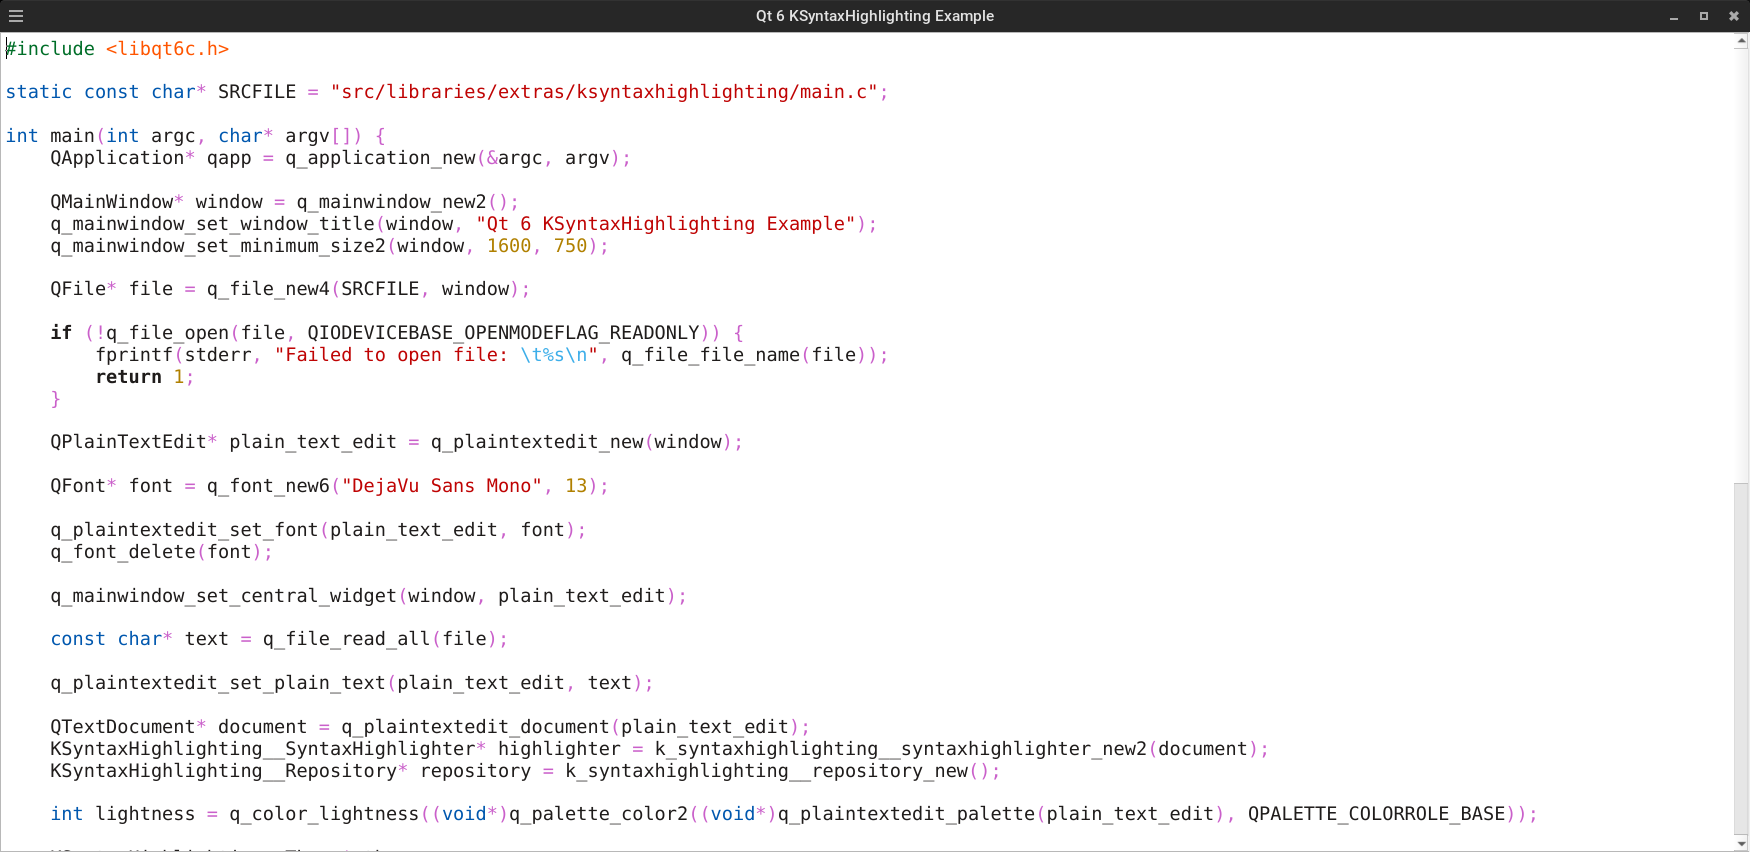
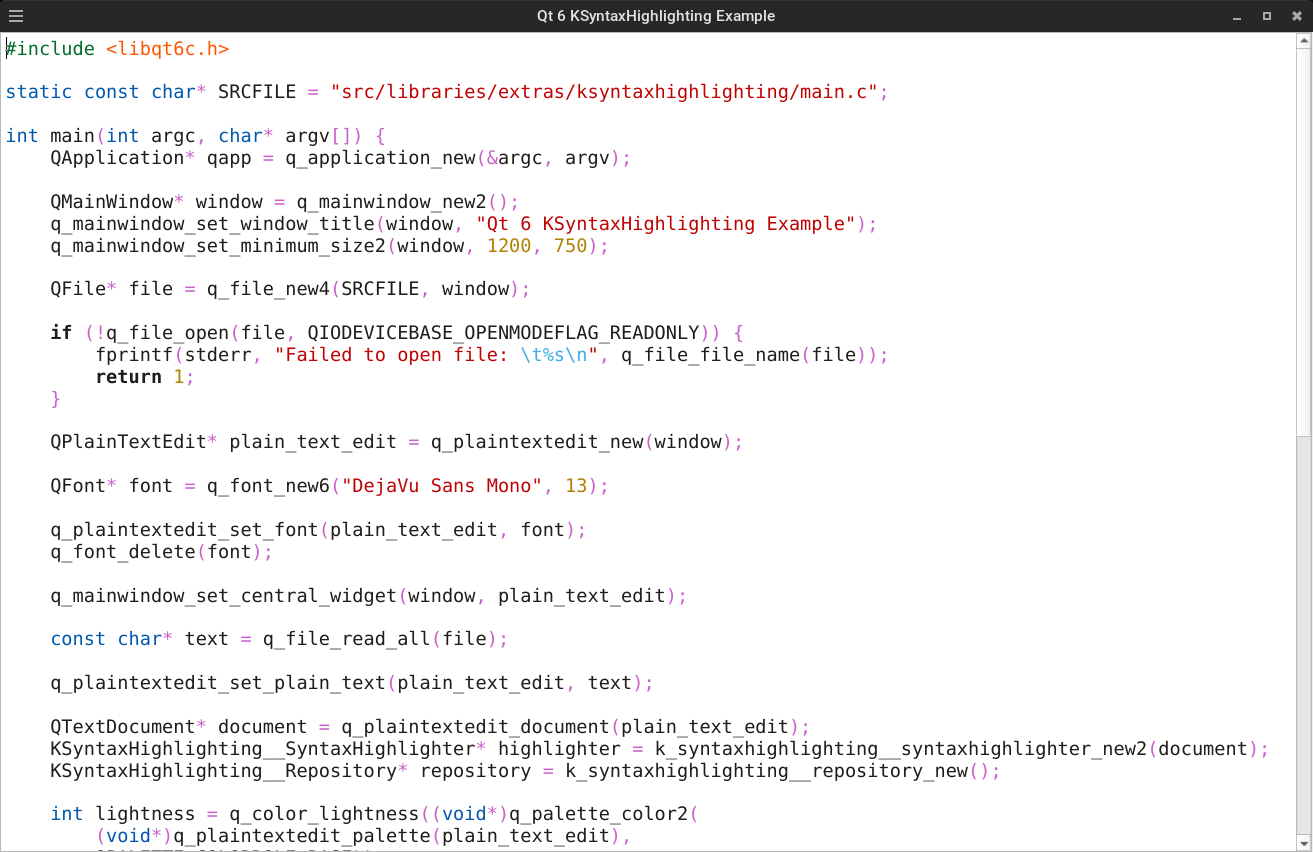
ksyntaxhighlighting: Improve readability

diff --git a/src/libraries/extras/ksyntaxhighlighting/main.c b/src/libraries/extras/ksyntaxhighlighting/main.c
@@ -7,7 +7,7 @@ int main(int argc, char* argv[]) {
 
     QMainWindow* window = q_mainwindow_new2();
     q_mainwindow_set_window_title(window, "Qt 6 KSyntaxHighlighting Example");
-    q_mainwindow_set_minimum_size2(window, 1600, 750);
+    q_mainwindow_set_minimum_size2(window, 1200, 750);
 
     QFile* file = q_file_new4(SRCFILE, window);
 
@@ -33,17 +33,25 @@ int main(int argc, char* argv[]) {
     KSyntaxHighlighting__SyntaxHighlighter* highlighter = k_syntaxhighlighting__syntaxhighlighter_new2(document);
     KSyntaxHighlighting__Repository* repository = k_syntaxhighlighting__repository_new();
 
-    int lightness = q_color_lightness((void*)q_palette_color2((void*)q_plaintextedit_palette(plain_text_edit), QPALETTE_COLORROLE_BASE));
+    int lightness = q_color_lightness((void*)q_palette_color2(
+        (void*)q_plaintextedit_palette(plain_text_edit),
+        QPALETTE_COLORROLE_BASE));
 
     KSyntaxHighlighting__Theme* theme;
 
     if (lightness < 128)
-        theme = k_syntaxhighlighting__repository_default_theme1(repository, KSYNTAXHIGHLIGHTING_REPOSITORY_DEFAULTTHEME_DARKTHEME);
+        theme = k_syntaxhighlighting__repository_default_theme1(
+            repository,
+            KSYNTAXHIGHLIGHTING_REPOSITORY_DEFAULTTHEME_DARKTHEME);
     else
-        theme = k_syntaxhighlighting__repository_default_theme1(repository, KSYNTAXHIGHLIGHTING_REPOSITORY_DEFAULTTHEME_LIGHTTHEME);
+        theme = k_syntaxhighlighting__repository_default_theme1(
+            repository,
+            KSYNTAXHIGHLIGHTING_REPOSITORY_DEFAULTTHEME_LIGHTTHEME);
 
     k_syntaxhighlighting__syntaxhighlighter_set_theme(highlighter, theme);
-    KSyntaxHighlighting__Definition* definition = k_syntaxhighlighting__repository_definition_for_file_name(repository, SRCFILE);
+    KSyntaxHighlighting__Definition* definition = k_syntaxhighlighting__repository_definition_for_file_name(
+        repository,
+        SRCFILE);
     k_syntaxhighlighting__syntaxhighlighter_set_definition(highlighter, definition);
 
     q_mainwindow_show(window);
